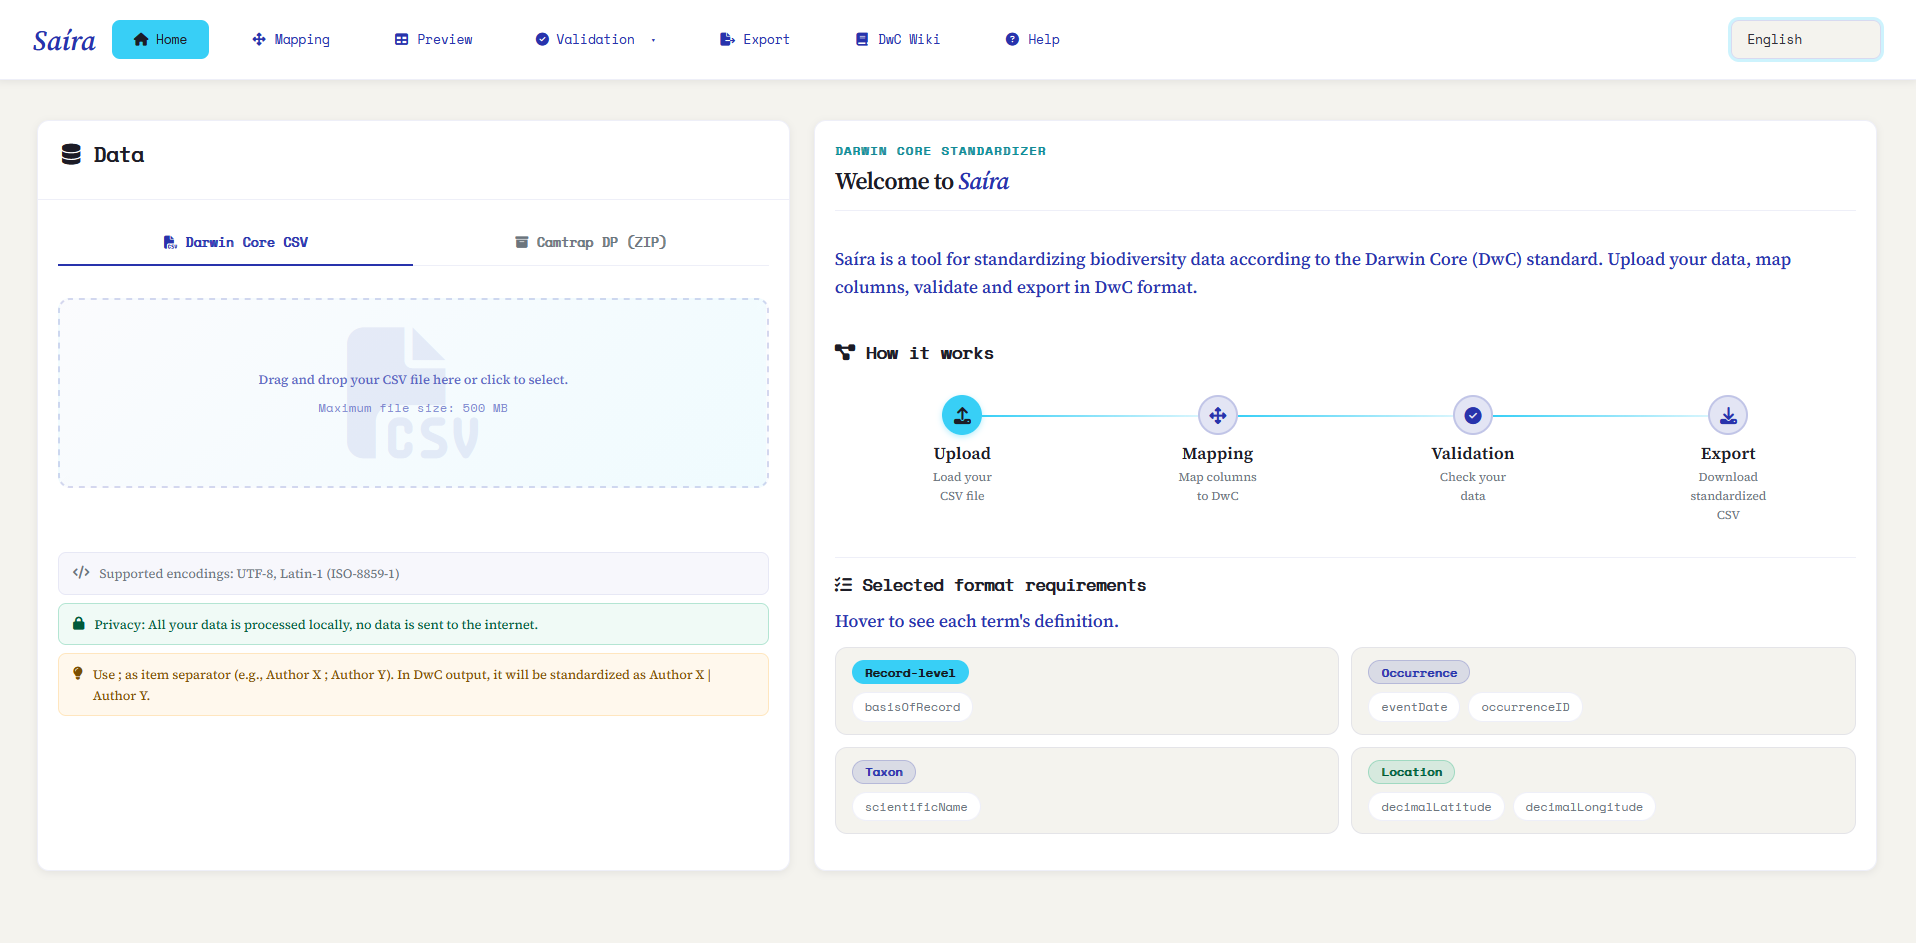
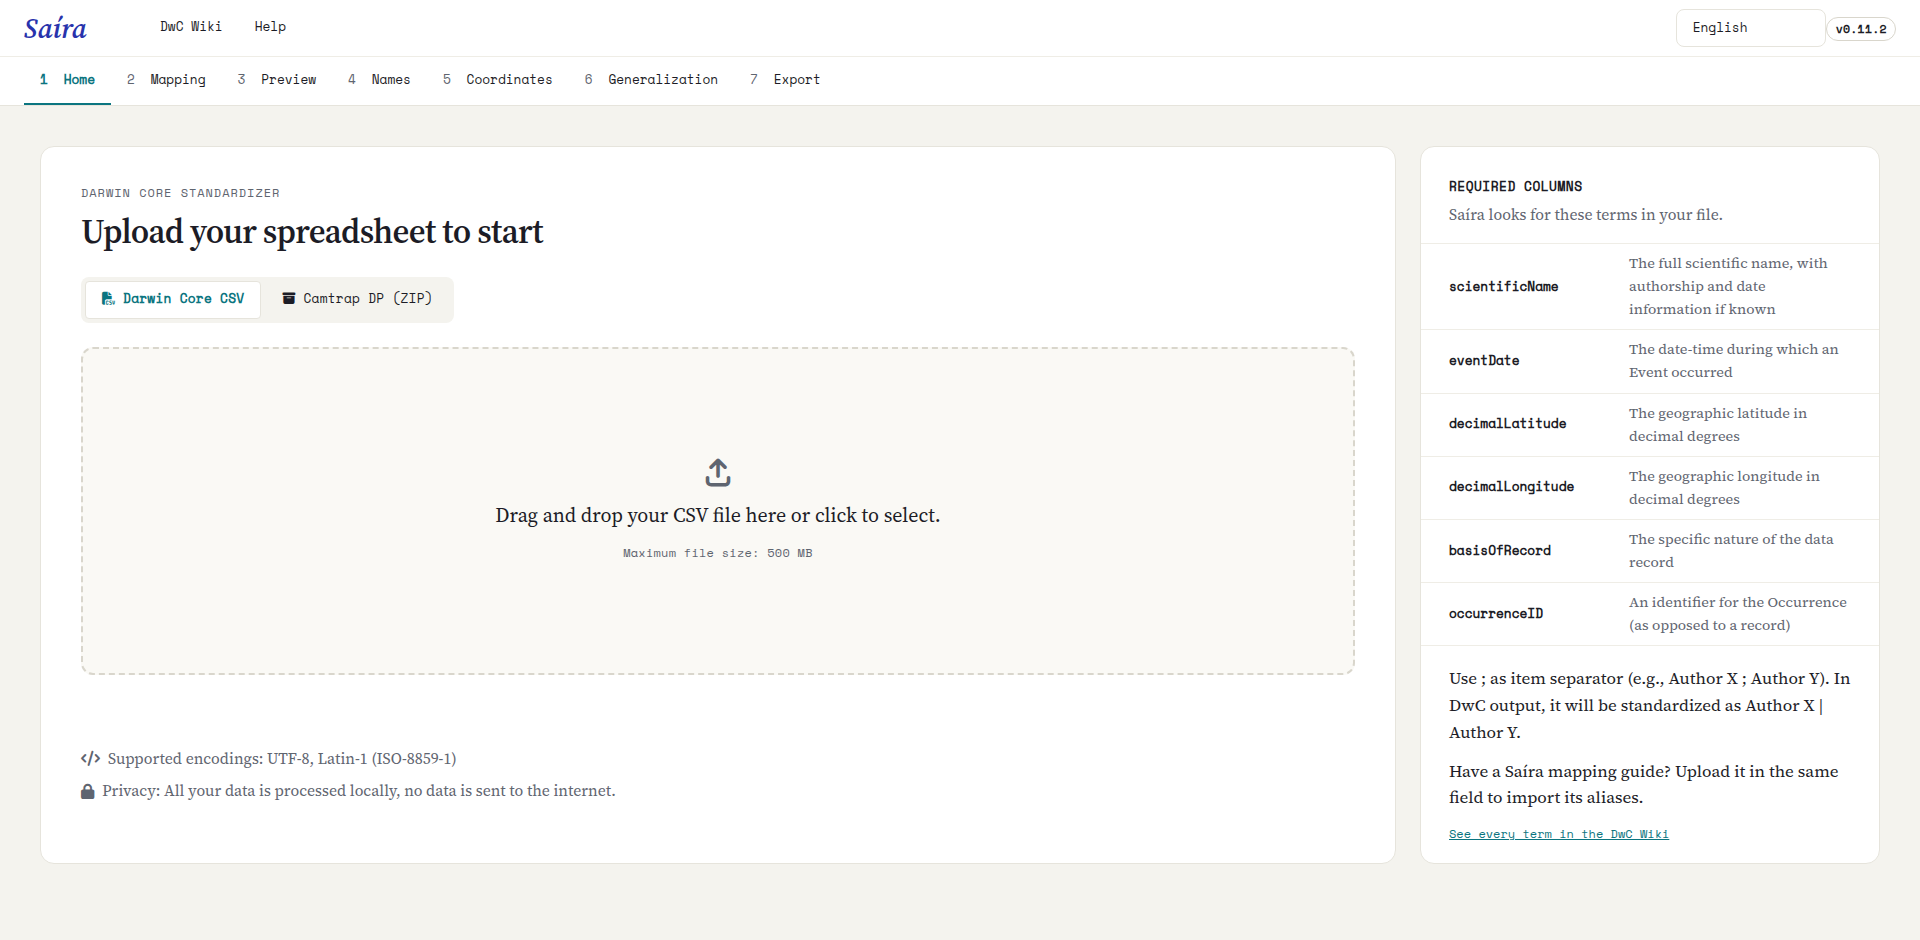
docs: refresh the tutorial screenshots for the flat redesign
Replace ten screenshots in PT and EN with the new home, mapping,
names, coordinates, generalization and export screens, and name the
steps as the app does (Home, Names). The pop-ups and assistants keep
their old screenshots until someone captures them by hand.

diff --git a/CHANGELOG.md b/CHANGELOG.md
@@ -8,6 +8,7 @@ Format based on [Keep a Changelog](https://keepachangelog.com/en/1.1.0/).
 ## [Unreleased]
 
 ### Changed
+- **site:** Refresh ten tutorial screenshots in PT and EN and name the steps as the app does
 - **ui:** Flatten tables, buttons, alerts and filter pills, and darken state-colored text to pass AA contrast
 - **mapping:** Flatten the cards: light state fills, pastel status badges, a Required tag and a flat sidebar
 - **upload:** Redesign the home page: upload panel on the left, required columns with definitions on the right
